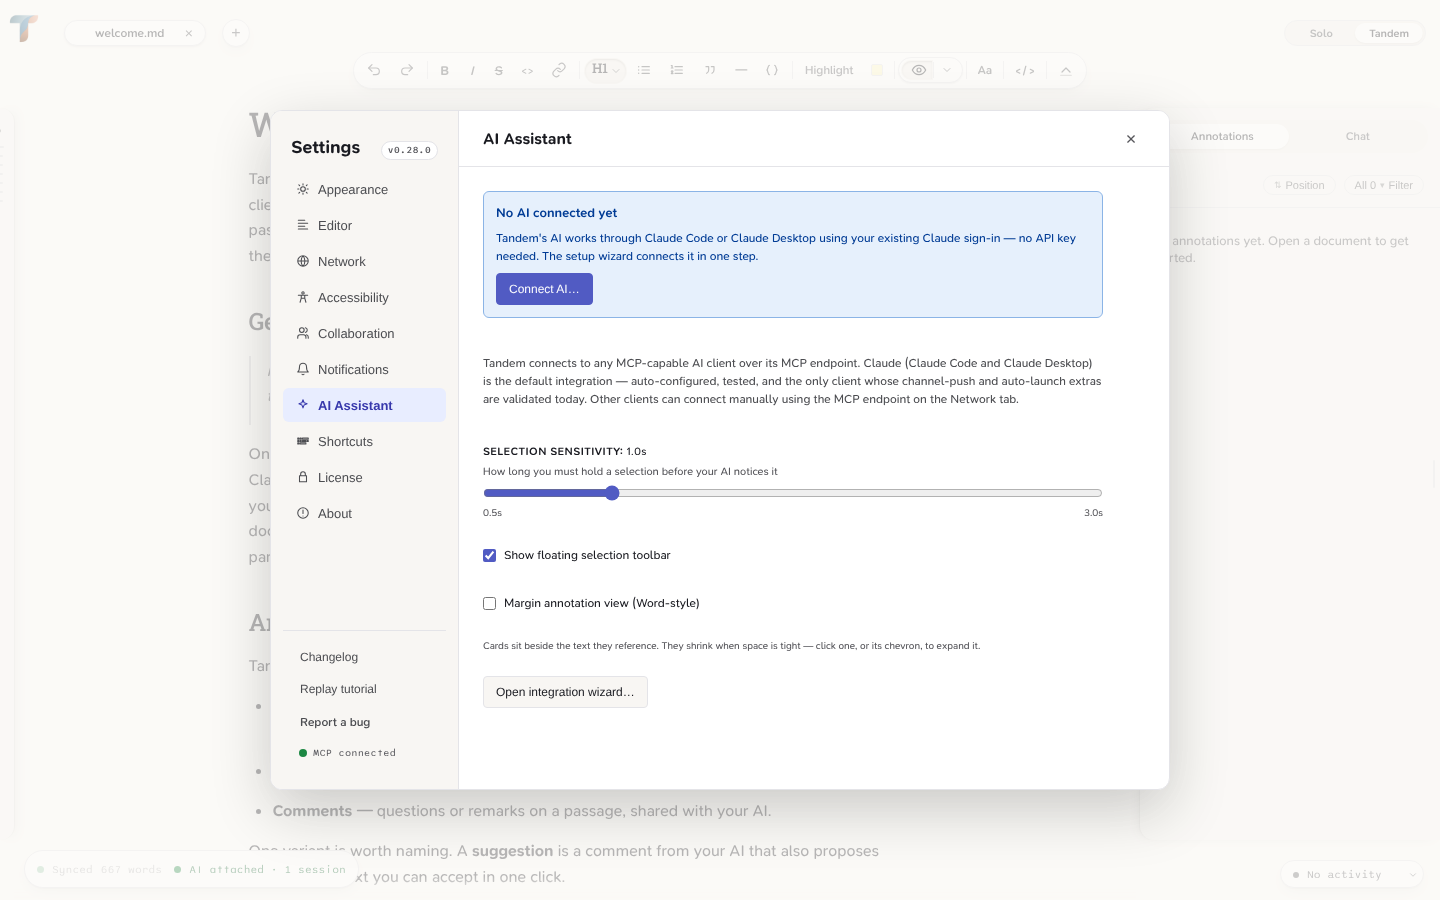
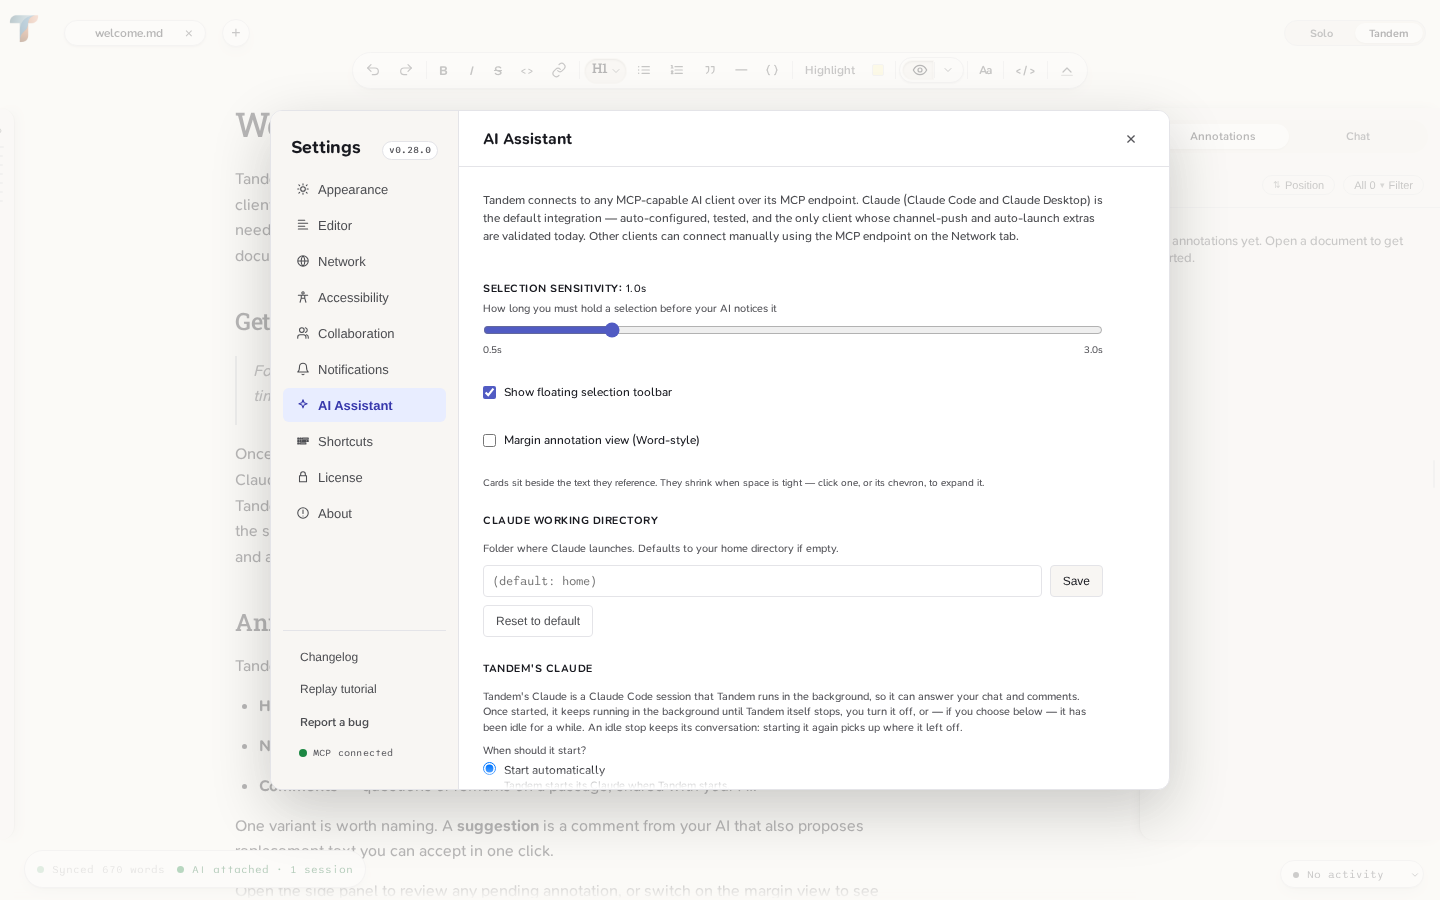
docs(screenshots): review follow-ups on #2247
- Slot 09: stub GET /api/integrations with a Claude Code entry, as slot 07
  does, and assert the "No AI connected yet" callout is absent. The old
  capture showed that callout beside a status pill reading "AI attached".
  Recaptured; the tab now shows the working directory and Tandem's Claude
  sections the user guide describes. The stub is now one shared helper.
- Slot 18: the autosave comment was wrong. Autosave is one global 60 s
  interval that also writes to disk, so a tick can clean the document
  before the external write; that fails closed, it never mis-captures.
- user-guide alt text: slot 04 shows a text selection, not a whole
  sentence; slot 20's dialog scrolls (its height is capped, so a taller
  viewport does not help), so the alt text no longer claims every
  shortcut is listed.

Claude-Session: https://claude.ai/code/session_01LMANrkxAR141SFLj4m8LLS

diff --git a/scripts/screenshots/capture.spec.ts b/scripts/screenshots/capture.spec.ts
@@ -823,16 +823,13 @@ test("06-claude-presence", async ({ page }) => {
   await pill.screenshot({ path: path.join(screenshotsDir, "06-claude-presence.png") });
 });
 
-test("07-toast-notification", async ({ page }) => {
-  // Ported from take-screenshots.mjs — with all three swallows removed.
-  //
-  // The predecessor triggered the toast by calling `tandem_comment` with a
-  // deliberately unmatchable `textSnapshot` inside a bare `try {} catch {}`,
-  // then wrapped the capture in a `try` with TWO `console.warn("SKIPPED")` arms.
-  // Nothing distinguished "wrote a fresh 07" from "left the old one in place",
-  // and if the trigger ever started *succeeding* the toast would simply never
-  // appear — silently. The trigger here is the deterministic success toast the
-  // e2e suite already pins (settings-modal.spec.ts E5), and every arm asserts.
+/**
+ * Report a configured Claude Code integration. The harness backend has none,
+ * so without this the Claude Code tab leads with the "No AI connected yet"
+ * callout while the same frame's status pill reads "AI attached" (the e2e
+ * client IS attached) — a contradiction a reader cannot resolve.
+ */
+async function stubClaudeCodeIntegration(page: Page): Promise<void> {
   await page.route("**/api/integrations", async (route) => {
     if (route.request().method() === "GET") {
       await route.fulfill({
@@ -844,6 +841,19 @@ test("07-toast-notification", async ({ page }) => {
       await route.continue();
     }
   });
+}
+
+test("07-toast-notification", async ({ page }) => {
+  // Ported from take-screenshots.mjs — with all three swallows removed.
+  //
+  // The predecessor triggered the toast by calling `tandem_comment` with a
+  // deliberately unmatchable `textSnapshot` inside a bare `try {} catch {}`,
+  // then wrapped the capture in a `try` with TWO `console.warn("SKIPPED")` arms.
+  // Nothing distinguished "wrote a fresh 07" from "left the old one in place",
+  // and if the trigger ever started *succeeding* the toast would simply never
+  // appear — silently. The trigger here is the deterministic success toast the
+  // e2e suite already pins (settings-modal.spec.ts E5), and every arm asserts.
+  await stubClaudeCodeIntegration(page);
   await page.route("**/api/launcher/working-directory", async (route) => {
     if (route.request().method() === "POST") {
       await route.fulfill({
@@ -914,6 +924,7 @@ test("08-onboarding-tutorial", async ({ page }) => {
 });
 
 test("09-settings-modal", async ({ page }) => {
+  await stubClaudeCodeIntegration(page);
   await openWelcome();
   // A full-viewport shot: the tutorial card sits bottom-left, half under the
   // modal's backdrop and half beside it, and read as part of Settings.
@@ -926,6 +937,10 @@ test("09-settings-modal", async ({ page }) => {
     "page",
   );
   await expect(page.getByTestId("tutorial-dismiss-btn")).toHaveCount(0);
+  await expect(page.getByTestId("settings-modal-working-directory")).toBeVisible({
+    timeout: 5_000,
+  });
+  await expect(modal).not.toContainText("No AI connected yet");
   await page.waitForTimeout(300);
   // Gate 3 (#1453 review): font barrier -- swap-loaded faces must be settled
   // before the pixel capture, not just after a fixed sleep.
@@ -1348,8 +1363,11 @@ test("18-external-conflict-banner", async ({ page }) => {
   await setRailVisible(page, "right", false);
   await makeUnsavedEdit(page, id, " Draft two.");
 
-  // Another program rewrites the file while the edit is unsaved. Autosave is
-  // 60s away, so the edit is still only in the Y.Doc when the watcher fires.
+  // Another program rewrites the file while the edit is unsaved. Autosave is a
+  // single global 60s interval that also writes to disk, so a tick landing
+  // between the edit and this write would clean the document and the watcher
+  // would reload silently. That fails closed (the banner assertion times out);
+  // it cannot produce a wrong picture.
   fs.writeFileSync(filePath, BRIEF_MD.replace("six weeks", "eight weeks"));
 
   const banner = page.getByTestId("external-conflict-banner");

diff --git a/docs/screenshots/README.md b/docs/screenshots/README.md
@@ -43,7 +43,7 @@ the three shots they shared they used different framing and different seed data.
 | 06 | `06-claude-presence.png` | [user-guide § Status Bar](../user-guide.md#status-bar) | The floating bottom-left status pill **in its hovered/revealed state** (it is faint otherwise), showing the connection dot, the word-count chip, a save state, and the AI indicator with its " · N session(s)" count (shown when the server reports one) and an activity string. Must **not** show a document count or an inline display-name editor — neither exists; the display-name editor lives in Settings → Collaboration. | Auto — element shot of the pill. Waits for the connection label to read **Synced**: the page's first connect is a rising edge, so for two seconds after load the label says "Reconnected", and earlier captures photographed that. One MCP client serves the whole run, because the server keeps counting a closed session for about a minute and per-step clients made this shot read "5 sessions". |
 | 07 | `07-toast-notification.png` | [user-guide § Toast Notifications](../user-guide.md#toast-notifications) | A dismissible toast with its dismiss control. | Auto. The trigger is Settings' working-directory **Save**, so the step **closes Settings first**: the modal's backdrop (a 70% wash of the page background, `SettingsModal.svelte`) sits on `--tandem-z-above-titlebar`, far above the toast tier `--tandem-z-toast` (`ToastContainer.svelte`), and every earlier capture of this slot was a pale toast seen through that wash. #2257 tracks the app-side layering bug. It then waits out the 200ms slide-in with `getAnimations()`, because `toBeVisible` passes on the animation's first frame. **Time-bounded**: `info` toasts auto-dismiss after 4s, so the step asserts and captures immediately. The repeat-count badge is *not* captured — the trigger toast carries no `dedupKey`, so its count never leaves 1. |
 | 08 | `08-onboarding-tutorial.png` | [user-guide § First Launch](../user-guide.md#first-launch) | The first-run tutorial card. | Auto |
-| 09 | `09-settings-modal.png` | [user-guide § Settings](../user-guide.md#settings) | The Settings modal on the AI Assistant tab. Offered to the README/user-docs owners. Must **not** show the tutorial card: it sits bottom-left, half under the backdrop, and reads as part of Settings. | Auto. Suppresses the tutorial card before `goto`, as slots 01/11/12 do. |
+| 09 | `09-settings-modal.png` | [user-guide § Settings](../user-guide.md#settings) | The Settings modal on the AI Assistant tab. Offered to the README/user-docs owners. Must **not** show the tutorial card: it sits bottom-left, half under the backdrop, and reads as part of Settings. Must **not** show the "No AI connected yet" callout: the status pill in the same frame reads "AI attached". | Auto. Suppresses the tutorial card before `goto`, as slots 01/11/12 do, and stubs `GET /api/integrations` with a Claude Code entry, as slot 07 does (the harness backend has none). |
 | 10 | `10-solo-tandem-toggle.png` | [user-guide § Solo / Tandem Mode](../user-guide.md#solo--tandem-mode) | The mode toggle in the title bar with both options legible. Requested so the privacy-and-trust section can carry its own image rather than pointing at slot 04. | Auto — element shot |
 | 11 | `11-margin-annotations.png` | [README § What you get](../../README.md#what-you-get), [user-guide § Annotations](../user-guide.md#annotations) | Margin cards beside the text with bezier leader lines and anchor dots, captured at a **full-width** margin. | Auto. Needs margin view on (Settings → AI Assistant), both rails closed, and ≥1600px viewport. The step **asserts** the column is ≥240px wide — below `full` the ladder silently steps to `narrow` (160px, no action row) or `stub` (28px, a pip) and the caption's Accept/Dismiss promise stops being true. |
 | 12 | `12-outline-rail.png` | [user-guide § Outline Panel (left)](../user-guide.md#outline-panel-left) | The left outline rail with a real heading tree and the search box. | Auto — `sample/welcome.md` carries six headings across two levels. Suppresses the tutorial card first (`addInitScript`, so it must run **before** `goto`): the card is anchored bottom-left and overlaps the rail, and every assertion here passed with it clipped across the lower third of the first captured frame. |

diff --git a/docs/user-guide.md b/docs/user-guide.md
@@ -36,7 +36,7 @@ A "You're ready!" card follows the three steps. The tutorial dismisses after tha
 
 ## The Editor
 
-![Four documents open in tabs, one marked with an unsaved-changes dot, above the formatting toolbar, and a selected sentence with the popup offering formatting, highlight colours and an Annotate button](screenshots/04-toolbar-actions.png)
+![Four documents open in tabs, one marked with an unsaved-changes dot, above the formatting toolbar, and a text selection with the popup offering formatting, highlight colours and an Annotate button](screenshots/04-toolbar-actions.png)
 
 ### Document Area
 
@@ -167,7 +167,7 @@ In the desktop app, a dot on the logo means an update is ready; opening Settings
 
 Press `?` (or `Ctrl+/`) at any time, or choose **Keyboard Shortcuts** from the brand menu, to open the keyboard shortcuts reference. Press `?` or `Esc` to close it.
 
-![The Keyboard Shortcuts reference, listing each shortcut beside the action it runs](screenshots/20-help-modal.png)
+![The Keyboard Shortcuts reference, with shortcuts grouped under Editor, View, Annotations, Navigation, Document and Other; the list scrolls for more](screenshots/20-help-modal.png)
 
 ### Banners
 
